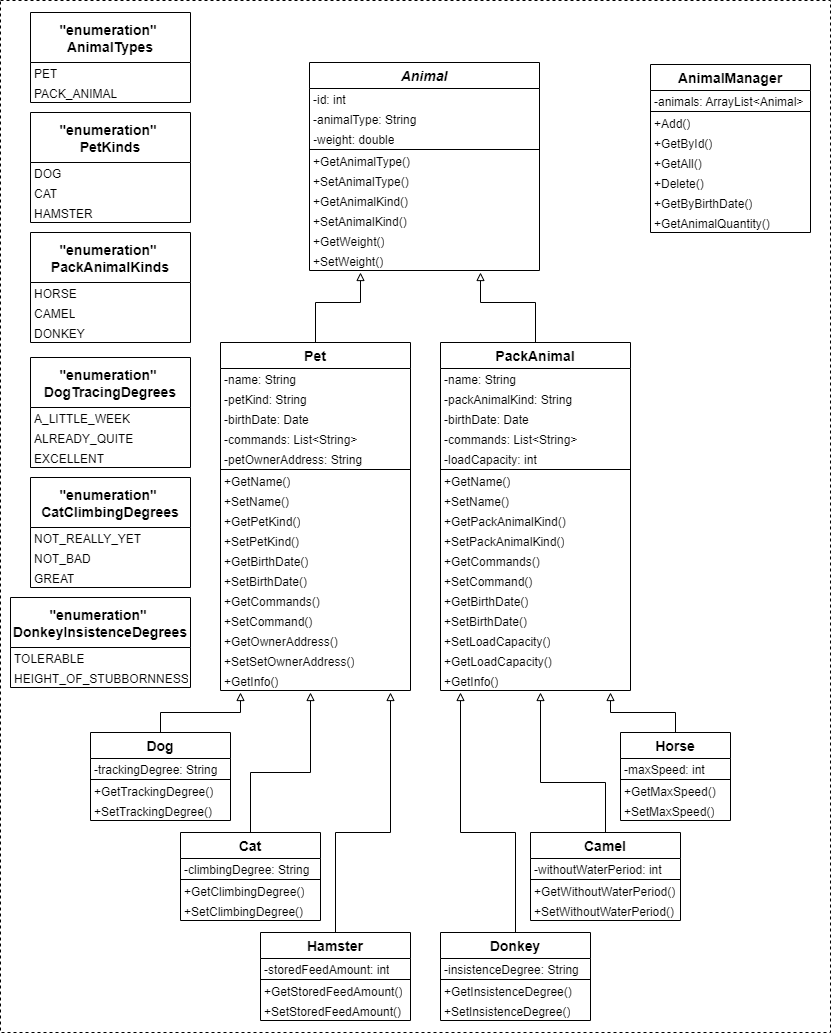
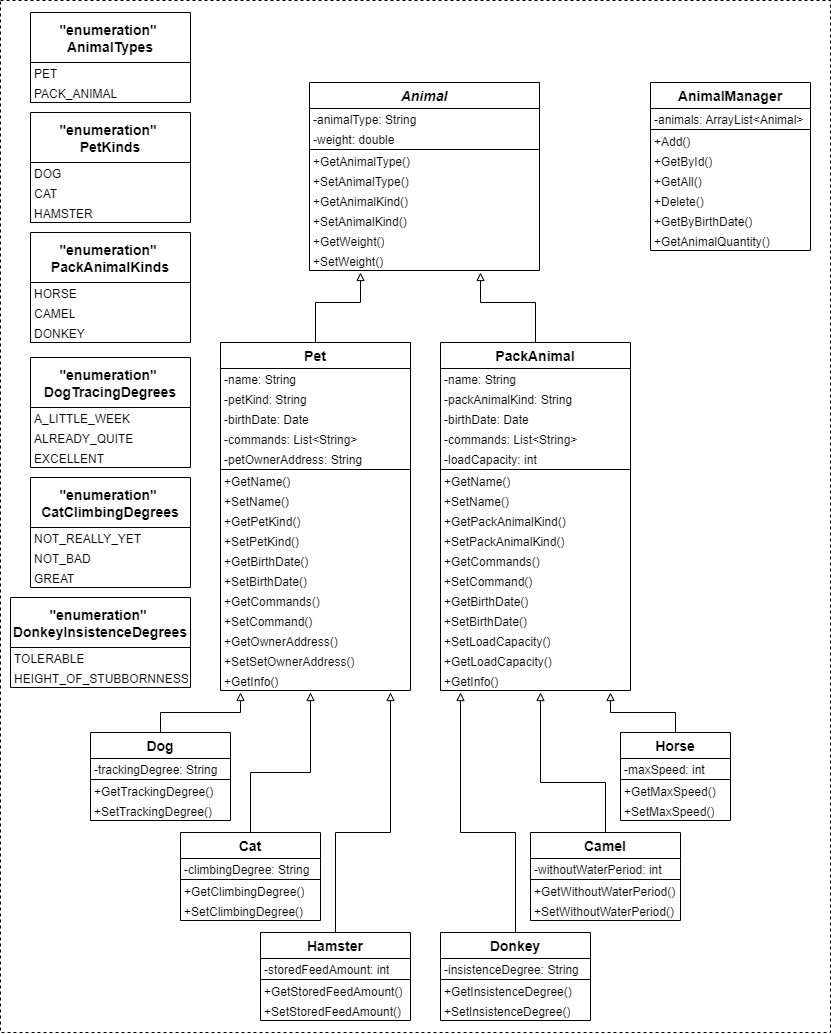
Created: Cat, Dog, Hamster, PackAnimal, Pet.

Changed region(s): [[0.7822, 0.0619, 0.9627, 0.2476], [0.4813, 0.0619, 0.5415, 0.1238], [0.3911, 0.0928, 0.4212, 0.1238]]

diff --git a/OOP_Java/App/Core/PackAnimal.java b/OOP_Java/App/Core/PackAnimal.java
@@ -1,0 +1,68 @@
+package OOP_Java.App.Core;
+
+import java.util.Date;
+import java.util.List;
+
+public class PackAnimal extends Animal {
+    private String packAnimalKind;
+    private String name;
+    private Date birthDate;
+    private List<String> commands;
+    private int loadCapacity;
+
+    /** Constructor */
+    public PackAnimal(String packAnimalKind, String name) {
+        this.packAnimalKind = packAnimalKind;
+        this.name = name;
+    }
+
+    /** Get kind of the pet animal. */
+    public String GetpackAnimalKind() {
+        return this.packAnimalKind;
+    }
+
+    /** Set kind of the pet animal. */
+    public void SetpackAnimalKind(String packAnimalKind) {
+        this.packAnimalKind = packAnimalKind;
+    }
+
+    /** Get pet animal name. */
+    public String GetName() {
+        return this.name;
+    }
+
+    /** Set pet animal name. */
+    public void setName(String name) {
+        this.name = name;
+    }
+
+    /** Get pet animal birth date. */
+    public Date GetBirthDate() {
+        return this.birthDate;
+    }
+
+    /** Set pet animal birth date. */
+    public void SetBirthDate(Date birthDate) {
+        this.birthDate = birthDate;
+    }
+
+    /** Get commands the pet animal knows. */
+    public List<String> GetCommands() {
+        return this.commands;
+    }
+
+    /** Set commands the pet animal knows. */
+    public void setCommands(List<String> commands) {
+        this.commands = commands;
+    }
+
+    /** Get pet animal load capacity in kilograms. */
+    public int GetLoadCapacity() {
+        return this.loadCapacity;
+    }
+
+    /** Set pet animal load capacity in kilograms. */
+    public void SetLoadCapacity(int loadCapacity) {
+        this.loadCapacity = loadCapacity;
+    }
+}

diff --git a/OOP_Java/App/Core/Pet.java b/OOP_Java/App/Core/Pet.java
@@ -1,0 +1,72 @@
+package OOP_Java.App.Core;
+
+import java.util.Date;
+import java.util.List;
+
+public class Pet extends Animal {
+    private String petKind;
+    private String name;
+    private Date birthDate;
+    private List<String> commands;
+    private String petOwnerAddress;
+
+    /** Constructor */
+    public Pet(
+            String petKind,
+            String name,
+            String petOwnerAddress) {
+        this.petKind = petKind;
+        this.name = name;
+        this.petOwnerAddress = petOwnerAddress;
+    }
+
+    /** Sets kind of pet. */
+    public void SetPetKind(String petKind) {
+        this.petKind = petKind;
+    }
+
+    /** Gets kind of pet. */
+    public String GetPetKind() {
+        return this.petKind;
+    }
+
+    /** Sets pet name. */
+    public void SetName(String name) {
+        this.name = name;
+    }
+
+    /** Gets the pet name. */
+    public String GetName() {
+        return this.name;
+    }
+
+    /** Sets the pet birth date. */
+    public void SetBirthDate(Date birthDate) {
+        this.birthDate = birthDate;
+    }
+
+    /** Gets the pet birth date. */
+    public Date GetBirthDate() {
+        return this.birthDate;
+    }
+
+    /** Sets commands the pet knows. */
+    public void SetCommands(List<String> commands) {
+        this.commands = commands;
+    }
+
+    /** Gets commands the pet knows. */
+    public List<String> GetCommands() {
+        return this.commands;
+    }
+
+    /** Sets pet owner address. */
+    public void SetPetOwnerAddress(String petOwnerAddress) {
+        this.petOwnerAddress = petOwnerAddress;
+    }
+
+    /** Gets pet owner address. */
+    public String GetPetOwnerAddress() {
+        return this.petOwnerAddress;
+    }
+}

diff --git a/OOP_Java/App/Core/Hamster.java b/OOP_Java/App/Core/Hamster.java
@@ -1,0 +1,29 @@
+package OOP_Java.App.Core;
+
+public class Hamster extends Pet {
+    private int storedFeedAmount;
+
+    /**
+     * Constructor.
+     * 
+     * @param storedFeedAmount Feed in grams a hamster can store.
+     */
+    public Hamster(
+            String petKind,
+            String name,
+            String petOwnerAddress,
+            int storedFeedAmount) {
+        super(petKind, name, petOwnerAddress);
+        this.storedFeedAmount = storedFeedAmount;
+    }
+
+    /** Get weight of feed in grams the hamster can store. */
+    public int getStoredFeedAmount() {
+        return this.storedFeedAmount;
+    }
+
+    /** Set weight of feed in grams the hamster can store. */
+    public void setStoredFeedAmount(int storedFeedAmount) {
+        this.storedFeedAmount = storedFeedAmount;
+    }
+}

diff --git a/OOP_Java/App/Core/Cat.java b/OOP_Java/App/Core/Cat.java
@@ -1,0 +1,25 @@
+package OOP_Java.App.Core;
+
+public class Cat extends Pet {
+    private String climbingDegree;
+
+    /** Constructor. */
+    public Cat(
+            String petKind,
+            String name,
+            String petOwnerAddress,
+            String climbingDegree) {
+        super(climbingDegree, climbingDegree, climbingDegree);
+        this.climbingDegree = climbingDegree;
+    }
+
+    /** Get the cat climbing degree. */
+    public String GetClimbingDegree() {
+        return this.climbingDegree;
+    }
+
+    /** Set the cat climbing degree. */
+    public void SetClimbingDegree(String climbingDegree) {
+        this.climbingDegree = climbingDegree;
+    }
+}

diff --git a/OOP_Java/App/Core/Dog.java b/OOP_Java/App/Core/Dog.java
@@ -1,0 +1,25 @@
+package OOP_Java.App.Core;
+
+public class Dog extends Pet {
+    private String trackingDegree;
+
+    /** Constructor. */
+    public Dog(
+            String petKind,
+            String name,
+            String petOwnerAddress,
+            String trackingDegree) {
+        super(petKind, name, petOwnerAddress);
+        this.trackingDegree = trackingDegree;
+    }
+
+    /** Get dog tracking degree. */
+    public String GetTrackingDegree() {
+        return this.trackingDegree;
+    }
+
+    /** Set dog tracking degree. */
+    public void SetTrackingDegree(String trackingDegree) {
+        this.trackingDegree = trackingDegree;
+    }
+}
